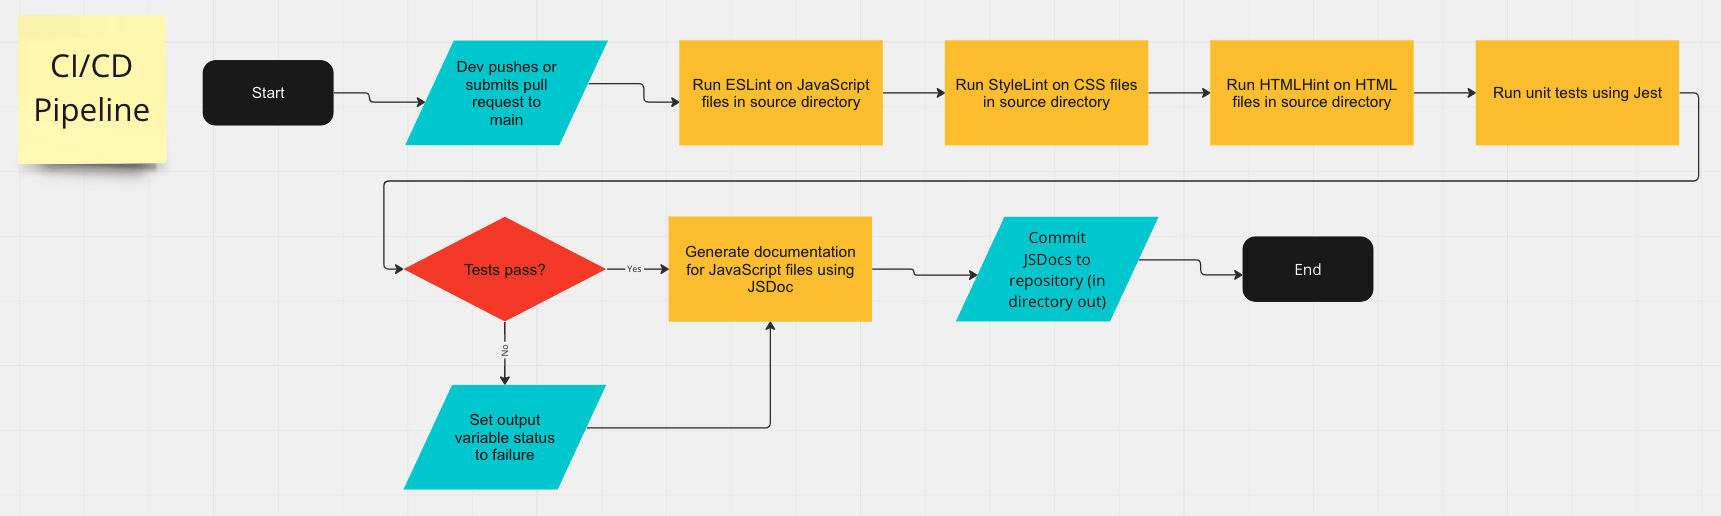
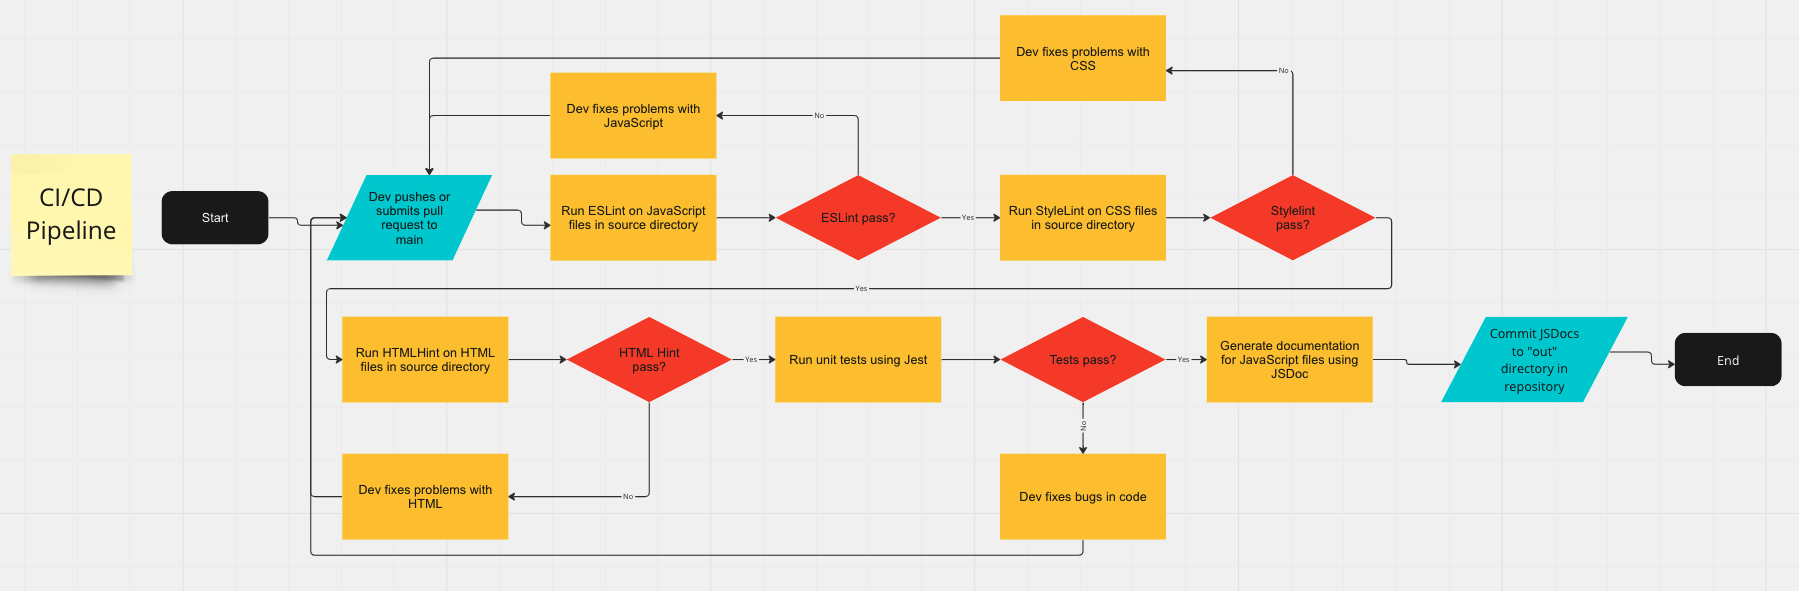
Change diagram, wording edits to .md

diff --git a/admin/cipipeline/phase1.md b/admin/cipipeline/phase1.md
@@ -4,7 +4,7 @@
 
 ## What is currently functional:
 
-When someone pushes or makes a pull request to the `main` branch, the pipeline runs linting software (ESLint, Stylelint, HTMLHint) on the JavaScript, CSS, and HTML files respectively. If the linting fails, feedback on why it failed is given in GitHub. If linting succeeds, the workflow then runs the unit tests using Jest if any are present. Next, the workflow generates documentation using JSDoc. The JSDoc documentation is stored in the `out` directory in the root of the repository.
+When someone pushes or makes a pull request to the `main` branch, the pipeline runs linting software (ESLint, Stylelint, HTMLHint) on the JavaScript, CSS, and HTML files respectively. If the linting fails, feedback on why it failed is provided in GitHub. If linting succeeds, the workflow then runs unit tests using Jest if any unit tests are present. Next, the workflow generates documentation using JSDoc. The JSDoc documentation is commmitted and pushed to the `out` directory in the root of the repository.
 
 ## Step-By-Step breakdown of current pipeline:
 
@@ -30,7 +30,7 @@ When someone pushes or makes a pull request to the `main` branch, the pipeline r
 
 ## Future Plans
 
-These are some features we are considering adding in the future:
+These are some features we are considering adding in the future. None of the tools listed here are finalized yet.
 
 * more advanced code checker such as Codeclimate or Codacity
 * minification before deploying to production
